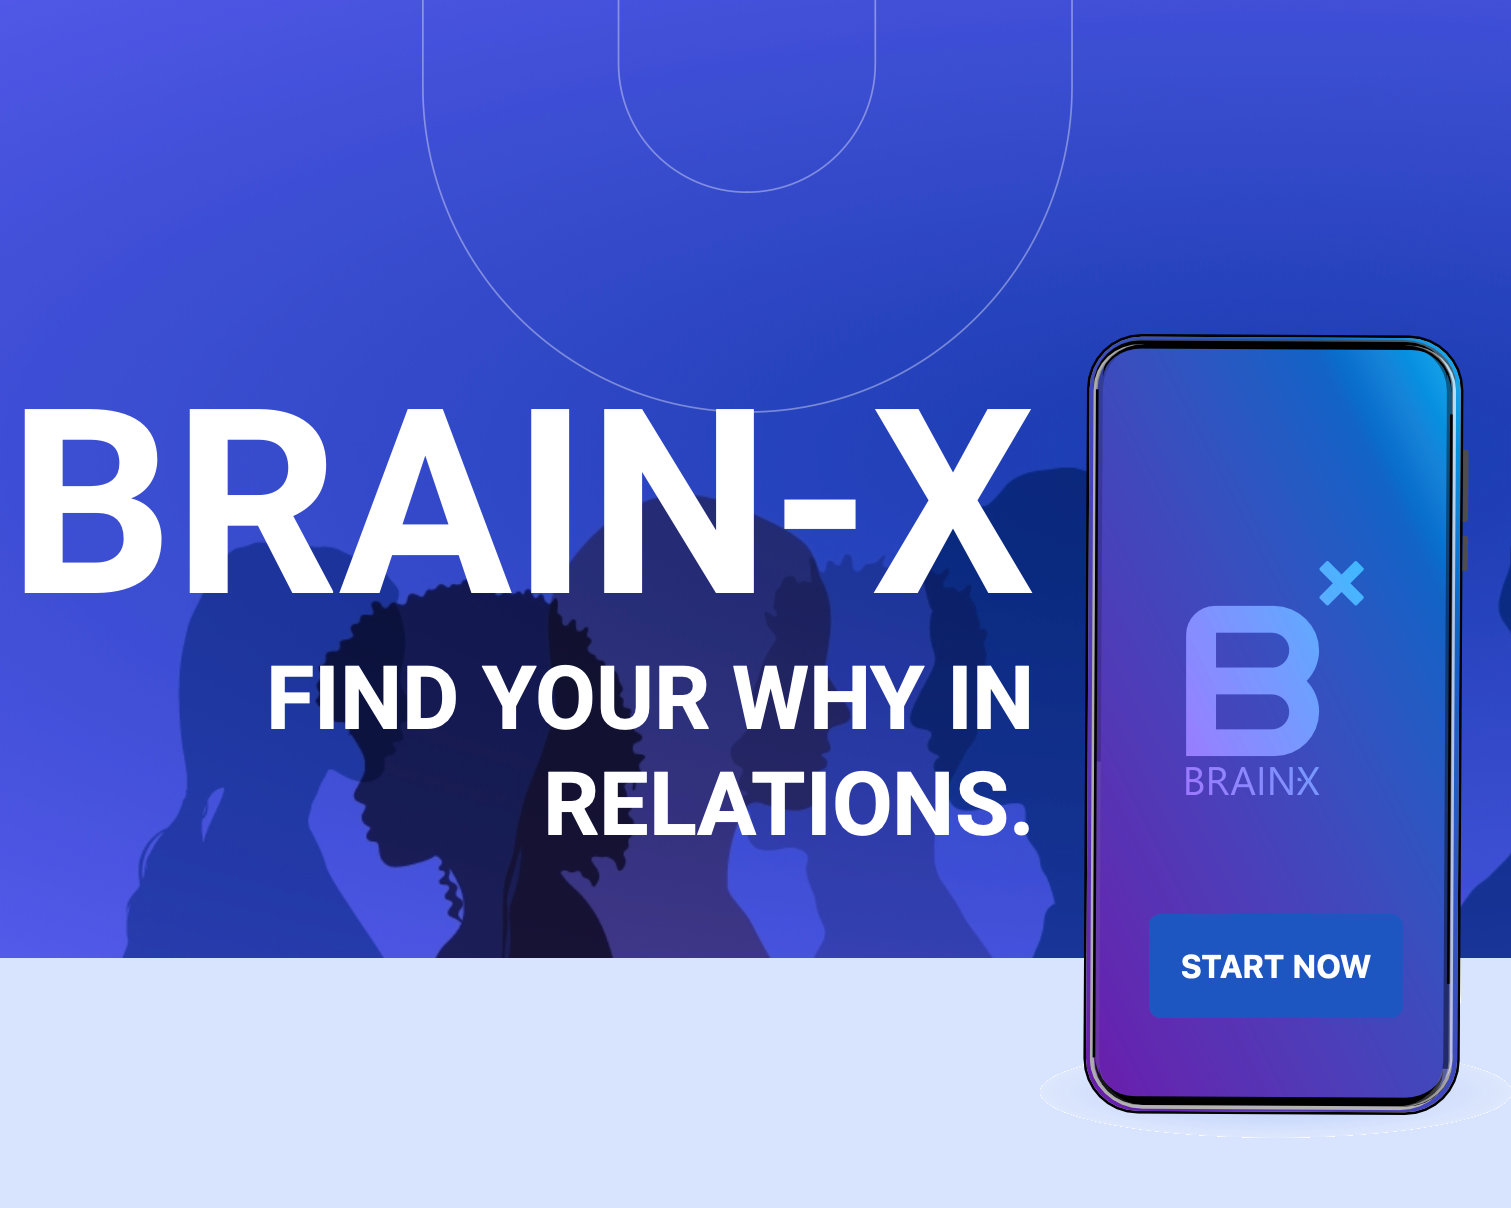
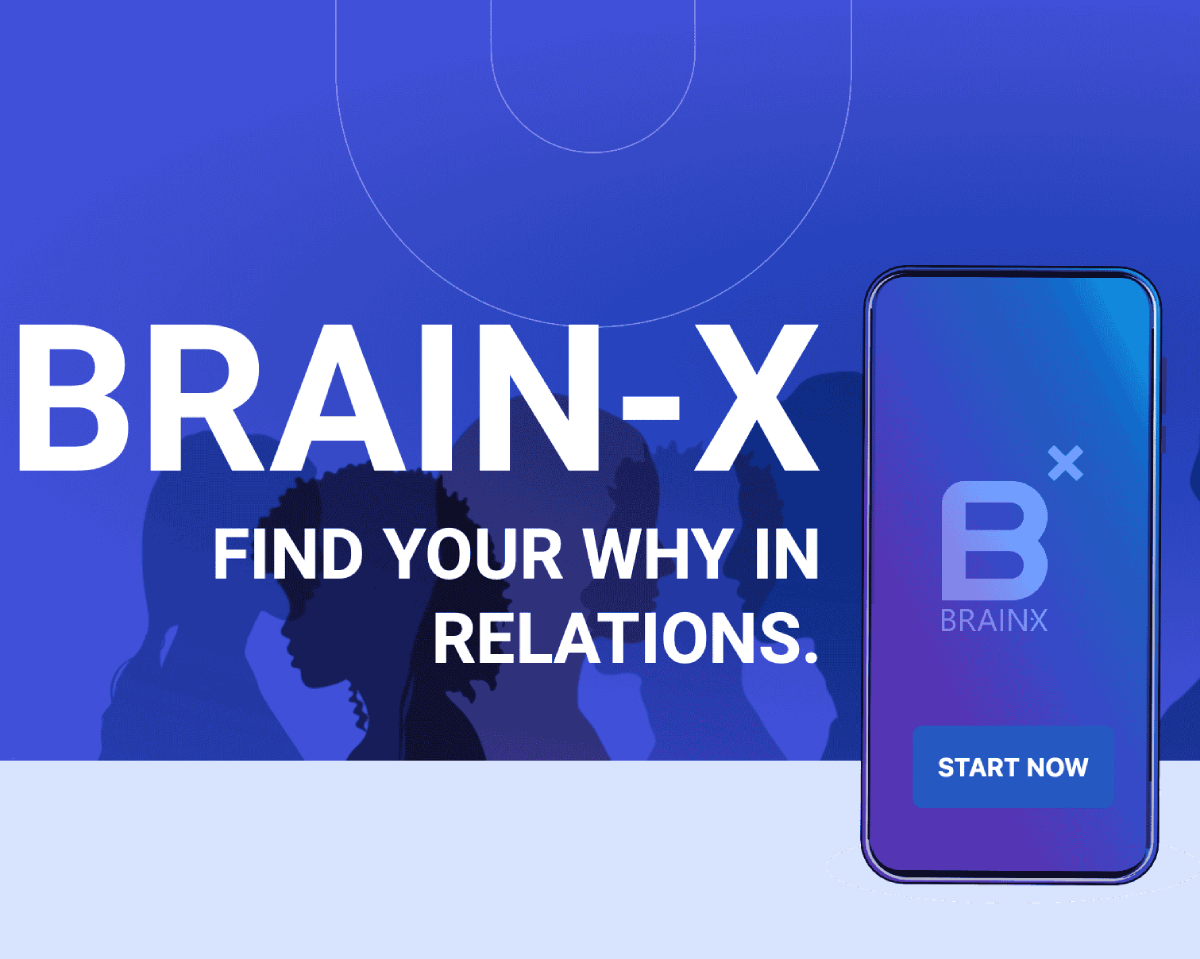
update images for better performance and add custom 404 page

diff --git a/error.vue b/error.vue
@@ -1,0 +1,92 @@
+<template>
+	<div class="page-content container">
+		<div class="error-page">
+			<div class="main-title">
+				<div class="letter">4</div>
+				<div class="letter">0</div>
+				<div class="letter">4</div>
+			</div>
+			<h1>Page not found</h1>
+			<p>
+				The page you are looking for was moved, removed, renamed or might never
+				existed
+			</p>
+			<NuxtLink to="/" class="primary-button">Go back home</NuxtLink>
+		</div>
+	</div>
+</template>
+
+<script setup>
+	useHead({
+		title: 'Page not found | Portfolio',
+		meta: [
+			{
+				name: 'description',
+				content: 'The page you are looking for does not exist.',
+			},
+		],
+	});
+</script>
+
+<style scoped>
+	.page-content {
+		display: flex;
+		align-items: center;
+		min-height: 100vh;
+		padding-top: 0;
+	}
+	.error-page {
+		width: 100%;
+		display: flex;
+		flex-direction: column;
+		align-items: center;
+	}
+	.main-title {
+		display: flex;
+		flex-direction: row;
+		justify-content: center;
+		margin-bottom: 3rem;
+	}
+	.letter {
+		font-size: 10rem;
+		line-height: 8rem;
+		font-weight: 700;
+		padding: 0 0.3rem;
+	}
+	.letter:first-of-type {
+		color: rgb(var(--primary));
+	}
+	.letter:nth-of-type(2) {
+		color: rgb(var(--tint-salmon));
+	}
+	.letter:last-of-type {
+		transform: rotateY(180deg);
+		color: rgb(var(--tint-orange));
+	}
+	h1 {
+		margin-bottom: 1rem;
+	}
+	p {
+		max-width: 30rem;
+		margin-top: 0;
+		text-align: center;
+		margin-bottom: 1.5rem;
+		color: rgb(var(--secondary-text-color));
+	}
+	@media screen and (max-width: 768px) {
+		.container {
+			padding-left: 1.5rem;
+			padding-right: 1.5rem;
+		}
+		.main-title {
+			margin-bottom: 0;
+		}
+		.letter {
+			font-size: 6rem;
+			line-height: 6rem;
+		}
+		h1{
+			margin-top: 1rem;
+		}
+	}
+</style>

diff --git a/assets/css/colors.css b/assets/css/colors.css
@@ -2,11 +2,11 @@
 	--white: 255, 255, 255;
 	--main-text-color: 0, 0, 0;
 	--secondary-text-color: 85, 85, 85;
-	--primary: 28, 24, 64;
+	--primary: 29, 24, 66;
 	--secondary: 244, 245, 246;
-	--tertiary: 130, 30, 61;
+	--tertiary: 142, 13, 60;
 	--tint-grey: 227, 227, 227;
-	--tint-orange: 220, 75, 62;
-	--tint-salmon: 240, 165, 164;
+	--tint-orange: 239, 59, 51;
+	--tint-salmon: 253, 161, 162;
   --cadmium-green: 9, 121, 105;
 }

diff --git a/components/modal.vue b/components/modal.vue
@@ -41,7 +41,7 @@
 								{{ infoRow }}
 							</p>
 						</div>
-						<NuxtLink to="/work" class="primary-button">
+						<NuxtLink to="/" class="primary-button" @click="closeModal">
 							See other projects
 						</NuxtLink>
 					</div>
